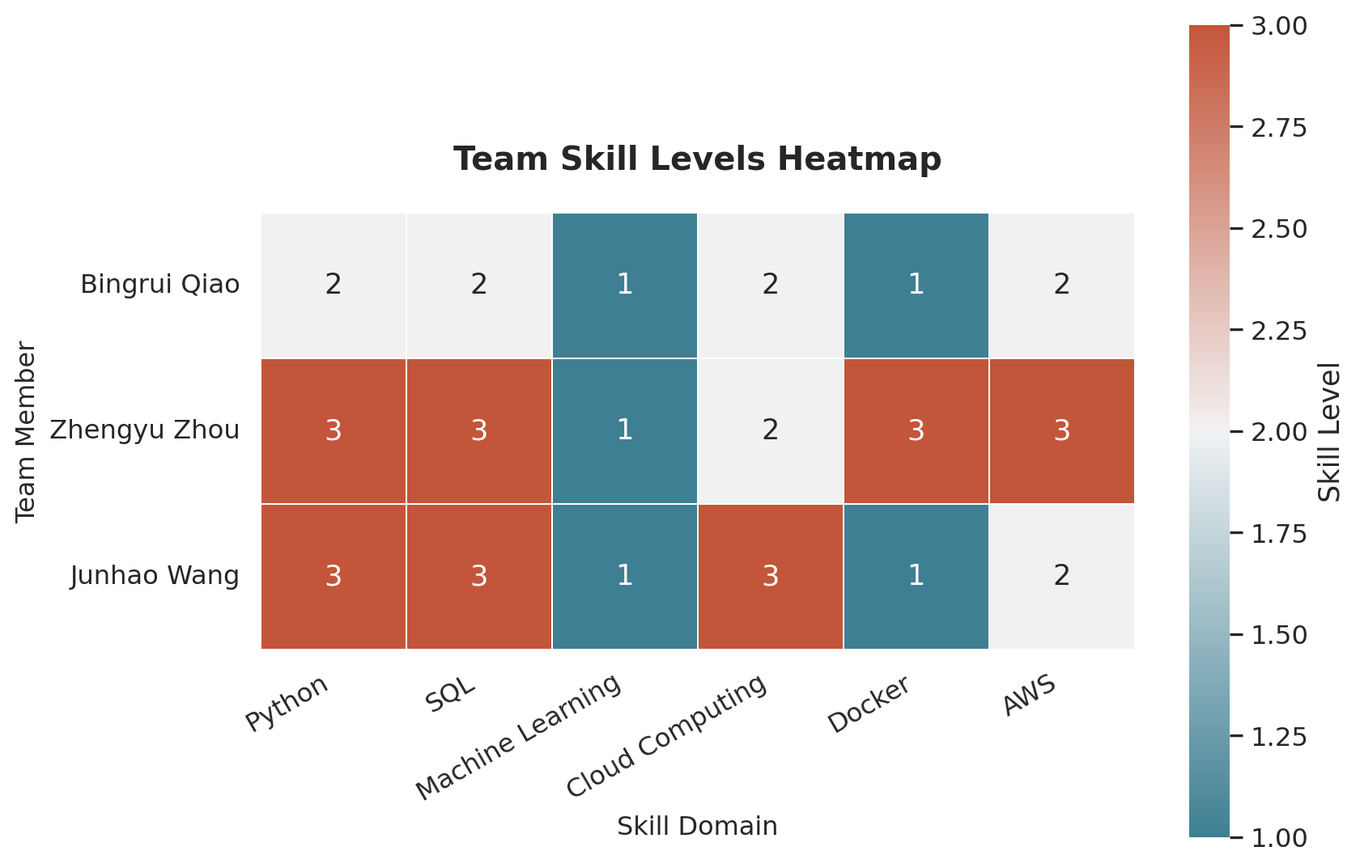
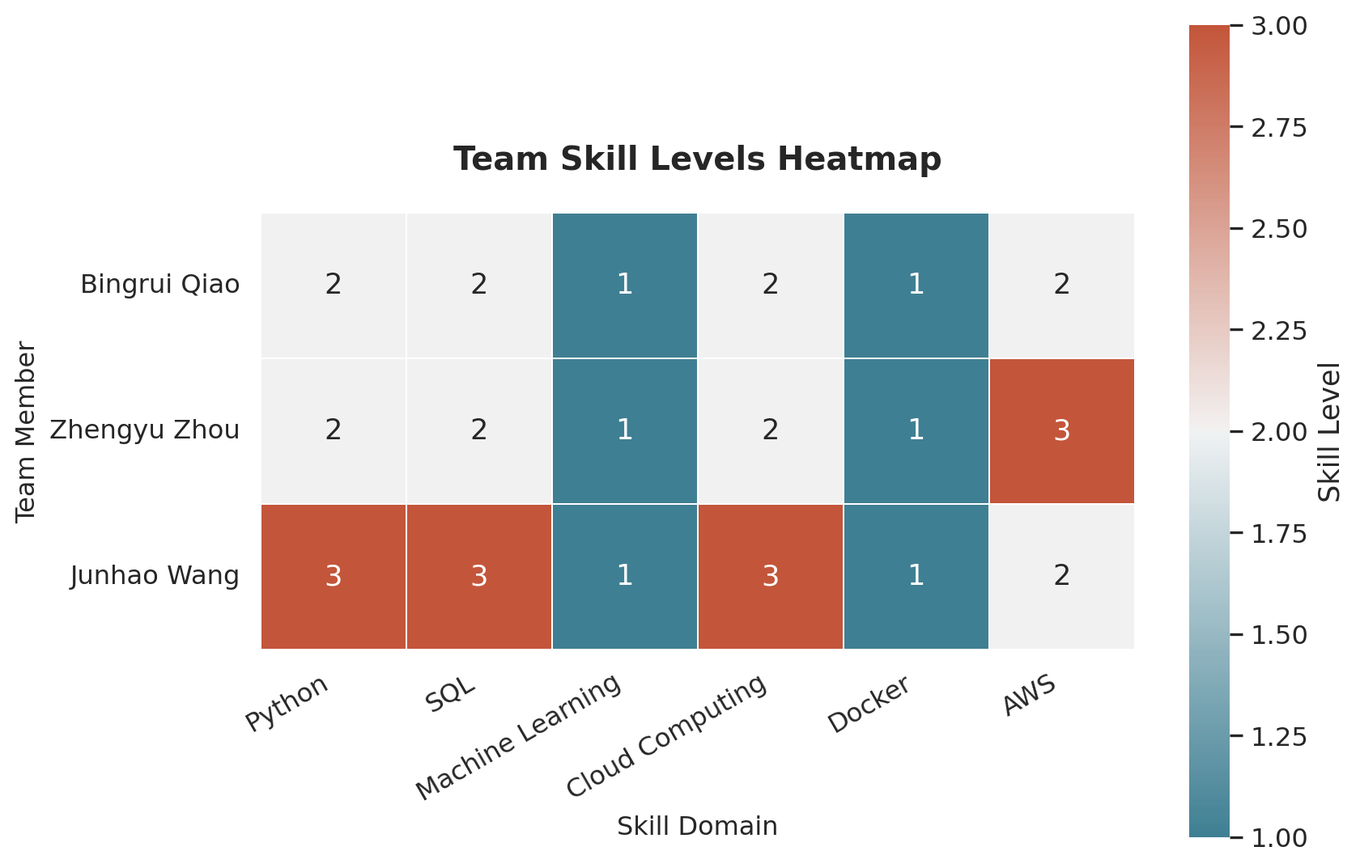
Built site for gh-pages

Changed region(s): [[0.1857, 0.3998, 0.4024, 0.5843], [0.619, 0.3998, 0.7429, 0.5843]]

diff --git a/skill_gap_analysis.html b/skill_gap_analysis.html
@@ -231,16 +231,16 @@ pre > code.sourceCode > span > a:first-child::before { text-decoration: underlin
 
 <section id="create-a-team-based-skill-dataframe" class="level1" data-number="1">
 <h1 data-number="1"><span class="header-section-number">1</span> Create a team-based skill dataframe</h1>
-<div id="f9940fe0" class="cell" data-execution_count="1">
+<div id="9b14aa88" class="cell" data-execution_count="1">
 <div class="code-copy-outer-scaffold"><div class="sourceCode cell-code" id="cb1"><pre class="sourceCode python code-with-copy"><code class="sourceCode python"><span id="cb1-1"><a href="#cb1-1" aria-hidden="true" tabindex="-1"></a><span class="im">import</span> pandas <span class="im">as</span> pd</span>
 <span id="cb1-2"><a href="#cb1-2" aria-hidden="true" tabindex="-1"></a></span>
 <span id="cb1-3"><a href="#cb1-3" aria-hidden="true" tabindex="-1"></a>skills_data <span class="op">=</span> {</span>
 <span id="cb1-4"><a href="#cb1-4" aria-hidden="true" tabindex="-1"></a>    <span class="st">"Name"</span>: [<span class="st">"Bingrui Qiao"</span>, <span class="st">"Zhengyu Zhou"</span>, <span class="st">"Junhao Wang"</span>],</span>
-<span id="cb1-5"><a href="#cb1-5" aria-hidden="true" tabindex="-1"></a>    <span class="st">"Python"</span>: [<span class="dv">2</span>, <span class="dv">3</span>, <span class="dv">3</span>],</span>
-<span id="cb1-6"><a href="#cb1-6" aria-hidden="true" tabindex="-1"></a>    <span class="st">"SQL"</span>: [<span class="dv">2</span>, <span class="dv">3</span>, <span class="dv">3</span>],</span>
+<span id="cb1-5"><a href="#cb1-5" aria-hidden="true" tabindex="-1"></a>    <span class="st">"Python"</span>: [<span class="dv">2</span>, <span class="dv">2</span>, <span class="dv">3</span>],</span>
+<span id="cb1-6"><a href="#cb1-6" aria-hidden="true" tabindex="-1"></a>    <span class="st">"SQL"</span>: [<span class="dv">2</span>, <span class="dv">2</span>, <span class="dv">3</span>],</span>
 <span id="cb1-7"><a href="#cb1-7" aria-hidden="true" tabindex="-1"></a>    <span class="st">"Machine Learning"</span>: [<span class="dv">1</span>, <span class="dv">1</span>, <span class="dv">1</span>],</span>
 <span id="cb1-8"><a href="#cb1-8" aria-hidden="true" tabindex="-1"></a>    <span class="st">"Cloud Computing"</span>: [<span class="dv">2</span>, <span class="dv">2</span>, <span class="dv">3</span>],</span>
-<span id="cb1-9"><a href="#cb1-9" aria-hidden="true" tabindex="-1"></a>    <span class="st">"Docker"</span>: [<span class="dv">1</span>, <span class="dv">3</span>, <span class="dv">1</span>],</span>
+<span id="cb1-9"><a href="#cb1-9" aria-hidden="true" tabindex="-1"></a>    <span class="st">"Docker"</span>: [<span class="dv">1</span>, <span class="dv">1</span>, <span class="dv">1</span>],</span>
 <span id="cb1-10"><a href="#cb1-10" aria-hidden="true" tabindex="-1"></a>    <span class="st">"AWS"</span>: [<span class="dv">2</span>, <span class="dv">3</span>, <span class="dv">2</span>]</span>
 <span id="cb1-11"><a href="#cb1-11" aria-hidden="true" tabindex="-1"></a>}</span>
 <span id="cb1-12"><a href="#cb1-12" aria-hidden="true" tabindex="-1"></a></span>
@@ -284,11 +284,11 @@ pre > code.sourceCode > span > a:first-child::before { text-decoration: underlin
 </tr>
 <tr class="even">
 <th data-quarto-table-cell-role="th">Zhengyu Zhou</th>
-<td>3</td>
-<td>3</td>
+<td>2</td>
+<td>2</td>
 <td>1</td>
 <td>2</td>
-<td>3</td>
+<td>1</td>
 <td>3</td>
 </tr>
 <tr class="odd">
@@ -309,7 +309,7 @@ pre > code.sourceCode > span > a:first-child::before { text-decoration: underlin
 </section>
 <section id="visualizing-skill-gaps" class="level1" data-number="2">
 <h1 data-number="2"><span class="header-section-number">2</span> Visualizing Skill Gaps</h1>
-<div id="5b78ab1b" class="cell" data-execution_count="2">
+<div id="b6d2c054" class="cell" data-execution_count="2">
 <div class="code-copy-outer-scaffold"><div class="sourceCode cell-code" id="cb2"><pre class="sourceCode python code-with-copy"><code class="sourceCode python"><span id="cb2-1"><a href="#cb2-1" aria-hidden="true" tabindex="-1"></a><span class="im">import</span> seaborn <span class="im">as</span> sns</span>
 <span id="cb2-2"><a href="#cb2-2" aria-hidden="true" tabindex="-1"></a><span class="im">import</span> matplotlib.pyplot <span class="im">as</span> plt</span>
 <span id="cb2-3"><a href="#cb2-3" aria-hidden="true" tabindex="-1"></a></span>
@@ -360,13 +360,13 @@ pre > code.sourceCode > span > a:first-child::before { text-decoration: underlin
 </section>
 <section id="compare-skill" class="level1" data-number="3">
 <h1 data-number="3"><span class="header-section-number">3</span> Compare skill</h1>
-<div id="104987b6" class="cell" data-execution_count="3">
+<div id="3018a6d8" class="cell" data-execution_count="3">
 <div class="code-copy-outer-scaffold"><div class="sourceCode cell-code" id="cb3"><pre class="sourceCode python code-with-copy"><code class="sourceCode python"><span id="cb3-1"><a href="#cb3-1" aria-hidden="true" tabindex="-1"></a><span class="co"># Load data</span></span>
-<span id="cb3-2"><a href="#cb3-2" aria-hidden="true" tabindex="-1"></a>raw_df <span class="op">=</span> pd.read_csv(<span class="st">"data/cleaned_lightcast.csv"</span>)</span>
+<span id="cb3-2"><a href="#cb3-2" aria-hidden="true" tabindex="-1"></a>df <span class="op">=</span> pd.read_csv(<span class="st">"data/cleaned_lightcast.csv"</span>)</span>
 <span id="cb3-3"><a href="#cb3-3" aria-hidden="true" tabindex="-1"></a></span>
 <span id="cb3-4"><a href="#cb3-4" aria-hidden="true" tabindex="-1"></a><span class="co"># Count keyword occurrences</span></span>
 <span id="cb3-5"><a href="#cb3-5" aria-hidden="true" tabindex="-1"></a>top_skills <span class="op">=</span> df_skills.columns.tolist()</span>
-<span id="cb3-6"><a href="#cb3-6" aria-hidden="true" tabindex="-1"></a>job_text <span class="op">=</span> raw_df[<span class="st">"BODY"</span>].fillna(<span class="st">""</span>)</span>
+<span id="cb3-6"><a href="#cb3-6" aria-hidden="true" tabindex="-1"></a>job_text <span class="op">=</span> df[<span class="st">"BODY"</span>].fillna(<span class="st">""</span>)</span>
 <span id="cb3-7"><a href="#cb3-7" aria-hidden="true" tabindex="-1"></a>skill_counts <span class="op">=</span> {s: job_text.<span class="bu">str</span>.contains(s, case<span class="op">=</span><span class="va">False</span>).<span class="bu">sum</span>() <span class="cf">for</span> s <span class="kw">in</span> top_skills}</span>
 <span id="cb3-8"><a href="#cb3-8" aria-hidden="true" tabindex="-1"></a></span>
 <span id="cb3-9"><a href="#cb3-9" aria-hidden="true" tabindex="-1"></a><span class="co"># Append demand row</span></span>
@@ -409,11 +409,11 @@ pre > code.sourceCode > span > a:first-child::before { text-decoration: underlin
 </tr>
 <tr class="even">
 <th data-quarto-table-cell-role="th">Zhengyu Zhou</th>
-<td>3</td>
-<td>3</td>
+<td>2</td>
+<td>2</td>
 <td>1</td>
 <td>2</td>
-<td>3</td>
+<td>1</td>
 <td>3</td>
 </tr>
 <tr class="odd">
@@ -443,7 +443,7 @@ pre > code.sourceCode > span > a:first-child::before { text-decoration: underlin
 </section>
 <section id="visual-heatmap" class="level1" data-number="4">
 <h1 data-number="4"><span class="header-section-number">4</span> Visual heatmap</h1>
-<div id="b10fc637" class="cell" data-execution_count="4">
+<div id="05cc034d" class="cell" data-execution_count="4">
 <div class="code-copy-outer-scaffold"><div class="sourceCode cell-code" id="cb4"><pre class="sourceCode python code-with-copy"><code class="sourceCode python"><span id="cb4-1"><a href="#cb4-1" aria-hidden="true" tabindex="-1"></a><span class="im">import</span> seaborn <span class="im">as</span> sns</span>
 <span id="cb4-2"><a href="#cb4-2" aria-hidden="true" tabindex="-1"></a><span class="im">import</span> matplotlib.pyplot <span class="im">as</span> plt</span>
 <span id="cb4-3"><a href="#cb4-3" aria-hidden="true" tabindex="-1"></a></span>
@@ -475,7 +475,7 @@ pre > code.sourceCode > span > a:first-child::before { text-decoration: underlin
 <span id="cb4-29"><a href="#cb4-29" aria-hidden="true" tabindex="-1"></a>plt.colorbar(label<span class="op">=</span><span class="st">"Market Demand Count"</span>)</span>
 <span id="cb4-30"><a href="#cb4-30" aria-hidden="true" tabindex="-1"></a>plt.yticks([<span class="dv">0</span>], [<span class="st">"Market Demand"</span>], fontsize<span class="op">=</span><span class="dv">10</span>)</span>
 <span id="cb4-31"><a href="#cb4-31" aria-hidden="true" tabindex="-1"></a>plt.xticks(<span class="bu">range</span>(<span class="bu">len</span>(df_skills.columns)), df_skills.columns, rotation<span class="op">=</span><span class="dv">30</span>, ha<span class="op">=</span><span class="st">"right"</span>, fontsize<span class="op">=</span><span class="dv">9</span>)</span>
-<span id="cb4-32"><a href="#cb4-32" aria-hidden="true" tabindex="-1"></a>plt.title(<span class="st">"Market Demand by Skill"</span>, fontsize<span class="op">=</span><span class="dv">13</span>, weight<span class="op">=</span><span class="st">"bold"</span>)</span>
+<span id="cb4-32"><a href="#cb4-32" aria-hidden="true" tabindex="-1"></a>plt.title(<span class="st">"Market Demand"</span>, fontsize<span class="op">=</span><span class="dv">13</span>, weight<span class="op">=</span><span class="st">"bold"</span>)</span>
 <span id="cb4-33"><a href="#cb4-33" aria-hidden="true" tabindex="-1"></a>plt.tight_layout()</span>
 <span id="cb4-34"><a href="#cb4-34" aria-hidden="true" tabindex="-1"></a>plt.savefig(<span class="st">"figures/Market_Demand.png"</span>, dpi<span class="op">=</span><span class="dv">300</span>, bbox_inches<span class="op">=</span><span class="st">"tight"</span>)</span>
 <span id="cb4-35"><a href="#cb4-35" aria-hidden="true" tabindex="-1"></a>plt.show()</span></code></pre></div><button title="Copy to Clipboard" class="code-copy-button"><i class="bi"></i></button></div>
@@ -494,10 +494,6 @@ pre > code.sourceCode > span > a:first-child::before { text-decoration: underlin
 </div>
 </div>
 </div>
-<p>Based on the heatmap comparison of each person’s self-ratings (1–3) against the market-demand scores (SQL and Machine Learning are hottest; Cloud/Docker mid; AWS/Python lower), here’s a concise, paragraph-style improvement plan:</p>
-<p>Bingrui Qiao should prioritize Machine Learning and SQL. Start with Kaggle’s “Intro to ML” + scikit-learn tutorials (train/validate linear/logistic/trees), then solve Mode SQL and LeetCode Database tracks to raise SQL from 2→3. Package one ML notebook into a small FastAPI service and containerize it to practice Docker basics (images, multi-stage build, docker run). Target two 90-minute focus blocks per week and submit progress as GitHub PRs for review.</p>
-<p>Zhengyu Zhou is already strong in Python/SQL/Docker/AWS; the biggest gap is Machine Learning and, secondarily, Cloud architecture depth. Take Andrew Ng’s “Machine Learning Specialization,” then deploy a trained model as a container on AWS (ECS Fargate or Lambda + API Gateway). For Cloud (2→3), complete AWS Well-Architected + IAM/VPC labs and add IaC (SAM/CloudFormation/Terraform) to the repo. After each module, demo a working endpoint and post a runbook; ask a teammate for a security and cost review.</p>
-<p>Junhao Wang is solid in Python/SQL/Cloud but needs Machine Learning and Docker. Follow fast.ai (first 2–3 lessons) or scikit-learn’s official guides to lift ML (1→2/3). In parallel, complete “Docker Get Started,” containerize a simple inference API, push to Amazon ECR, and run on ECS; add a GitHub Actions workflow to build/test/push on every PR. Aim for one 2-hour ML block and one 2-hour Docker/DevOps block weekly; measure success by latency/throughput of the deployed service and a clean CI pipeline.</p>
 
 
 </section>

diff --git a/data_analysis.html b/data_analysis.html
@@ -241,7 +241,7 @@ pre > code.sourceCode > span > a:first-child::before { text-decoration: underlin
 <section id="data-cleaning-preprocessing" class="level2" data-number="1">
 <h2 data-number="1" class="anchored" data-anchor-id="data-cleaning-preprocessing"><span class="header-section-number">1</span> Data Cleaning &amp; Preprocessing</h2>
 <p>In this section, we clean the Lightcast dataset, log each step, and save a reproducible cleaned CSV for downstream EDA.</p>
-<div id="1c581ca2" class="cell" data-execution_count="2">
+<div id="63467d54" class="cell" data-execution_count="2">
 <div class="code-copy-outer-scaffold"><div class="sourceCode cell-code" id="cb1"><pre class="sourceCode python code-with-copy"><code class="sourceCode python"><span id="cb1-1"><a href="#cb1-1" aria-hidden="true" tabindex="-1"></a><span class="im">import</span> os, datetime</span>
 <span id="cb1-2"><a href="#cb1-2" aria-hidden="true" tabindex="-1"></a>os.makedirs(<span class="st">"logs"</span>, exist_ok<span class="op">=</span><span class="va">True</span>)</span>
 <span id="cb1-3"><a href="#cb1-3" aria-hidden="true" tabindex="-1"></a><span class="cf">with</span> <span class="bu">open</span>(<span class="st">"logs/_ping.txt"</span>, <span class="st">"w"</span>, encoding<span class="op">=</span><span class="st">"utf-8"</span>) <span class="im">as</span> f:</span>
@@ -250,7 +250,7 @@ pre > code.sourceCode > span > a:first-child::before { text-decoration: underlin
 </div>
 <section id="setup-load-clean-version" class="level3" data-number="1.1">
 <h3 data-number="1.1" class="anchored" data-anchor-id="setup-load-clean-version"><span class="header-section-number">1.1</span> Setup &amp; Load (clean version)</h3>
-<div id="2bf30390" class="cell" data-execution_count="3">
+<div id="7d97df26" class="cell" data-execution_count="3">
 <div class="code-copy-outer-scaffold"><div class="sourceCode cell-code" id="cb2"><pre class="sourceCode python code-with-copy"><code class="sourceCode python"><span id="cb2-1"><a href="#cb2-1" aria-hidden="true" tabindex="-1"></a><span class="im">import</span> os, datetime</span>
 <span id="cb2-2"><a href="#cb2-2" aria-hidden="true" tabindex="-1"></a><span class="im">import</span> numpy <span class="im">as</span> np</span>
 <span id="cb2-3"><a href="#cb2-3" aria-hidden="true" tabindex="-1"></a><span class="im">import</span> pandas <span class="im">as</span> pd</span>
@@ -310,7 +310,7 @@ pre > code.sourceCode > span > a:first-child::before { text-decoration: underlin
 </section>
 <section id="drop-redundantirrelevant-columns" class="level3" data-number="1.2">
 <h3 data-number="1.2" class="anchored" data-anchor-id="drop-redundantirrelevant-columns"><span class="header-section-number">1.2</span> Drop redundant/irrelevant columns</h3>
-<div id="6cc71b63" class="cell" data-execution_count="4">
+<div id="1bd2558a" class="cell" data-execution_count="4">
 <div class="code-copy-outer-scaffold"><div class="sourceCode cell-code" id="cb3"><pre class="sourceCode python code-with-copy"><code class="sourceCode python"><span id="cb3-1"><a href="#cb3-1" aria-hidden="true" tabindex="-1"></a>columns_to_drop <span class="op">=</span> [</span>
 <span id="cb3-2"><a href="#cb3-2" aria-hidden="true" tabindex="-1"></a><span class="st">"ID"</span>,<span class="st">"URL"</span>,<span class="st">"ACTIVE_URLS"</span>,<span class="st">"DUPLICATES"</span>,<span class="st">"LAST_UPDATED_TIMESTAMP"</span>,</span>
 <span id="cb3-3"><a href="#cb3-3" aria-hidden="true" tabindex="-1"></a><span class="st">"NAICS2"</span>,<span class="st">"NAICS3"</span>,<span class="st">"NAICS4"</span>,<span class="st">"NAICS5"</span>,<span class="st">"NAICS6"</span>,</span>
@@ -337,7 +337,7 @@ pre > code.sourceCode > span > a:first-child::before { text-decoration: underlin
 </section>
 <section id="visualize-handle-missing-values" class="level3" data-number="1.3">
 <h3 data-number="1.3" class="anchored" data-anchor-id="visualize-handle-missing-values"><span class="header-section-number">1.3</span> Visualize &amp; handle missing values</h3>
-<div id="4bb0766b" class="cell" data-execution_count="5">
+<div id="04ade187" class="cell" data-execution_count="5">
 <div class="code-copy-outer-scaffold"><div class="sourceCode cell-code" id="cb4"><pre class="sourceCode python code-with-copy"><code class="sourceCode python"><span id="cb4-1"><a href="#cb4-1" aria-hidden="true" tabindex="-1"></a><span class="co"># --- Missing values correlation heatmap (like your classmate) ---</span></span>
 <span id="cb4-2"><a href="#cb4-2" aria-hidden="true" tabindex="-1"></a></span>
 <span id="cb4-3"><a href="#cb4-3" aria-hidden="true" tabindex="-1"></a>cols_with_na <span class="op">=</span> [c <span class="cf">for</span> c <span class="kw">in</span> df.columns <span class="cf">if</span> df[c].isna().<span class="bu">any</span>()]</span>
@@ -383,7 +383,7 @@ pre > code.sourceCode > span > a:first-child::before { text-decoration: underlin
 </section>
 <section id="remove-duplicates" class="level3" data-number="1.4">
 <h3 data-number="1.4" class="anchored" data-anchor-id="remove-duplicates"><span class="header-section-number">1.4</span> Remove duplicates</h3>
-<div id="8d31576f" class="cell" data-execution_count="6">
+<div id="fe705bdc" class="cell" data-execution_count="6">
 <div class="code-copy-outer-scaffold"><div class="sourceCode cell-code" id="cb5"><pre class="sourceCode python code-with-copy"><code class="sourceCode python"><span id="cb5-1"><a href="#cb5-1" aria-hidden="true" tabindex="-1"></a>subset_cols <span class="op">=</span> [c <span class="cf">for</span> c <span class="kw">in</span> [<span class="st">"TITLE"</span>,<span class="st">"COMPANY"</span>,<span class="st">"LOCATION"</span>,<span class="st">"POSTED"</span>] <span class="cf">if</span> c <span class="kw">in</span> df.columns]</span>
 <span id="cb5-2"><a href="#cb5-2" aria-hidden="true" tabindex="-1"></a>before <span class="op">=</span> <span class="bu">len</span>(df)</span>
 <span id="cb5-3"><a href="#cb5-3" aria-hidden="true" tabindex="-1"></a><span class="cf">if</span> subset_cols:</span>
@@ -394,7 +394,7 @@ pre > code.sourceCode > span > a:first-child::before { text-decoration: underlin
 </section>
 <section id="optional-salary-sanity-filter" class="level3" data-number="1.5">
 <h3 data-number="1.5" class="anchored" data-anchor-id="optional-salary-sanity-filter"><span class="header-section-number">1.5</span> Optional salary sanity filter</h3>
-<div id="0e17ee23" class="cell" data-execution_count="7">
+<div id="a19eb58e" class="cell" data-execution_count="7">
 <div class="code-copy-outer-scaffold"><div class="sourceCode cell-code" id="cb6"><pre class="sourceCode python code-with-copy"><code class="sourceCode python"><span id="cb6-1"><a href="#cb6-1" aria-hidden="true" tabindex="-1"></a><span class="cf">if</span> <span class="st">"SALARY"</span> <span class="kw">in</span> df.columns:</span>
 <span id="cb6-2"><a href="#cb6-2" aria-hidden="true" tabindex="-1"></a>    bad <span class="op">=</span> (df[<span class="st">"SALARY"</span>] <span class="op">&lt;</span> <span class="dv">1</span>) <span class="op">|</span> (df[<span class="st">"SALARY"</span>] <span class="op">&gt;</span> <span class="dv">1_000_000</span>)</span>
 <span id="cb6-3"><a href="#cb6-3" aria-hidden="true" tabindex="-1"></a>    n_bad <span class="op">=</span> <span class="bu">int</span>(bad.<span class="bu">sum</span>())</span>
@@ -407,7 +407,7 @@ pre > code.sourceCode > span > a:first-child::before { text-decoration: underlin
 </section>
 <section id="save-summary" class="level3" data-number="1.6">
 <h3 data-number="1.6" class="anchored" data-anchor-id="save-summary"><span class="header-section-number">1.6</span> Save &amp; summary</h3>
-<div id="2dfa0786" class="cell" data-execution_count="8">
+<div id="b8e858b1" class="cell" data-execution_count="8">
 <div class="code-copy-outer-scaffold"><div class="sourceCode cell-code" id="cb7"><pre class="sourceCode python code-with-copy"><code class="sourceCode python"><span id="cb7-1"><a href="#cb7-1" aria-hidden="true" tabindex="-1"></a>df.to_csv(CLEAN_PATH, index<span class="op">=</span><span class="va">False</span>)</span>
 <span id="cb7-2"><a href="#cb7-2" aria-hidden="true" tabindex="-1"></a>log(<span class="ss">f"Saved cleaned dataset → </span><span class="sc">{</span>CLEAN_PATH<span class="sc">}</span><span class="ss">"</span>)</span>
 <span id="cb7-3"><a href="#cb7-3" aria-hidden="true" tabindex="-1"></a></span>
@@ -427,7 +427,7 @@ In this section, we focus on three aspects: 1. Job postings by industry<br>
 <section id="job-postings-by-industry" class="level3" data-number="2.1">
 <h3 data-number="2.1" class="anchored" data-anchor-id="job-postings-by-industry"><span class="header-section-number">2.1</span> Job Postings by Industry</h3>
 <p>Understanding industry demand helps reveal which sectors are most active in hiring.</p>
-<div id="349bdb43" class="cell" data-execution_count="9">
+<div id="044a9026" class="cell" data-execution_count="9">
 <div class="code-copy-outer-scaffold"><div class="sourceCode cell-code" id="cb8"><pre class="sourceCode python code-with-copy"><code class="sourceCode python"><span id="cb8-1"><a href="#cb8-1" aria-hidden="true" tabindex="-1"></a><span class="im">import</span> pandas <span class="im">as</span> pd</span>
 <span id="cb8-2"><a href="#cb8-2" aria-hidden="true" tabindex="-1"></a><span class="im">import</span> matplotlib.pyplot <span class="im">as</span> plt</span>
 <span id="cb8-3"><a href="#cb8-3" aria-hidden="true" tabindex="-1"></a><span class="im">import</span> seaborn <span class="im">as</span> sns</span>
@@ -473,7 +473,7 @@ In this section, we focus on three aspects: 1. Job postings by industry<br>
 </section>
 <section id="salary-distribution-by-industry" class="level3" data-number="2.2">
 <h3 data-number="2.2" class="anchored" data-anchor-id="salary-distribution-by-industry"><span class="header-section-number">2.2</span> Salary Distribution by Industry</h3>
-<div id="2ea6015f" class="cell" data-execution_count="10">
+<div id="9a7fb3bc" class="cell" data-execution_count="10">
 <div class="code-copy-outer-scaffold"><div class="sourceCode cell-code" id="cb9"><pre class="sourceCode python code-with-copy"><code class="sourceCode python"><span id="cb9-1"><a href="#cb9-1" aria-hidden="true" tabindex="-1"></a><span class="im">import</span> os</span>
 <span id="cb9-2"><a href="#cb9-2" aria-hidden="true" tabindex="-1"></a><span class="im">import</span> pandas <span class="im">as</span> pd</span>
 <span id="cb9-3"><a href="#cb9-3" aria-hidden="true" tabindex="-1"></a><span class="im">import</span> matplotlib.pyplot <span class="im">as</span> plt</span>
@@ -527,7 +527,7 @@ In this section, we focus on three aspects: 1. Job postings by industry<br>
 </section>
 <section id="remote-vs.-on-site-jobs" class="level3" data-number="2.3">
 <h3 data-number="2.3" class="anchored" data-anchor-id="remote-vs.-on-site-jobs"><span class="header-section-number">2.3</span> Remote vs.&nbsp;On-Site Jobs</h3>
-<div id="c0718ada" class="cell" data-execution_count="11">
+<div id="af18b292" class="cell" data-execution_count="11">
 <div class="code-copy-outer-scaffold"><div class="sourceCode cell-code" id="cb10"><pre class="sourceCode python code-with-copy"><code class="sourceCode python"><span id="cb10-1"><a href="#cb10-1" aria-hidden="true" tabindex="-1"></a><span class="im">import</span> os</span>
 <span id="cb10-2"><a href="#cb10-2" aria-hidden="true" tabindex="-1"></a><span class="im">import</span> pandas <span class="im">as</span> pd</span>
 <span id="cb10-3"><a href="#cb10-3" aria-hidden="true" tabindex="-1"></a><span class="im">import</span> matplotlib.pyplot <span class="im">as</span> plt</span>

diff --git a/data_cleaning.html b/data_cleaning.html
@@ -235,7 +235,7 @@ pre > code.sourceCode > span > a:first-child::before { text-decoration: underlin
 <section id="data-cleaning-preprocessing" class="level2" data-number="1">
 <h2 data-number="1" class="anchored" data-anchor-id="data-cleaning-preprocessing"><span class="header-section-number">1</span> Data Cleaning &amp; Preprocessing</h2>
 <p>In this section, we clean the Lightcast dataset, log each step, and save a reproducible cleaned CSV for downstream EDA.</p>
-<div id="561a17fb" class="cell" data-execution_count="2">
+<div id="edd8e709" class="cell" data-execution_count="2">
 <div class="code-copy-outer-scaffold"><div class="sourceCode cell-code" id="cb1"><pre class="sourceCode python code-with-copy"><code class="sourceCode python"><span id="cb1-1"><a href="#cb1-1" aria-hidden="true" tabindex="-1"></a><span class="im">import</span> os, datetime</span>
 <span id="cb1-2"><a href="#cb1-2" aria-hidden="true" tabindex="-1"></a>os.makedirs(<span class="st">"logs"</span>, exist_ok<span class="op">=</span><span class="va">True</span>)</span>
 <span id="cb1-3"><a href="#cb1-3" aria-hidden="true" tabindex="-1"></a><span class="cf">with</span> <span class="bu">open</span>(<span class="st">"logs/_ping.txt"</span>, <span class="st">"w"</span>, encoding<span class="op">=</span><span class="st">"utf-8"</span>) <span class="im">as</span> f:</span>
@@ -244,7 +244,7 @@ pre > code.sourceCode > span > a:first-child::before { text-decoration: underlin
 </div>
 <section id="setup-load-clean-version" class="level3" data-number="1.1">
 <h3 data-number="1.1" class="anchored" data-anchor-id="setup-load-clean-version"><span class="header-section-number">1.1</span> Setup &amp; Load (clean version)</h3>
-<div id="141f617b" class="cell" data-execution_count="3">
+<div id="ce27b599" class="cell" data-execution_count="3">
 <div class="code-copy-outer-scaffold"><div class="sourceCode cell-code" id="cb2"><pre class="sourceCode python code-with-copy"><code class="sourceCode python"><span id="cb2-1"><a href="#cb2-1" aria-hidden="true" tabindex="-1"></a><span class="im">import</span> os, datetime</span>
 <span id="cb2-2"><a href="#cb2-2" aria-hidden="true" tabindex="-1"></a><span class="im">import</span> numpy <span class="im">as</span> np</span>
 <span id="cb2-3"><a href="#cb2-3" aria-hidden="true" tabindex="-1"></a><span class="im">import</span> pandas <span class="im">as</span> pd</span>
@@ -304,7 +304,7 @@ pre > code.sourceCode > span > a:first-child::before { text-decoration: underlin
 </section>
 <section id="drop-redundantirrelevant-columns" class="level3" data-number="1.2">
 <h3 data-number="1.2" class="anchored" data-anchor-id="drop-redundantirrelevant-columns"><span class="header-section-number">1.2</span> Drop redundant/irrelevant columns</h3>
-<div id="ba5573ac" class="cell" data-execution_count="4">
+<div id="42a38f23" class="cell" data-execution_count="4">
 <div class="code-copy-outer-scaffold"><div class="sourceCode cell-code" id="cb3"><pre class="sourceCode python code-with-copy"><code class="sourceCode python"><span id="cb3-1"><a href="#cb3-1" aria-hidden="true" tabindex="-1"></a>columns_to_drop <span class="op">=</span> [</span>
 <span id="cb3-2"><a href="#cb3-2" aria-hidden="true" tabindex="-1"></a><span class="st">"ID"</span>,<span class="st">"URL"</span>,<span class="st">"ACTIVE_URLS"</span>,<span class="st">"DUPLICATES"</span>,<span class="st">"LAST_UPDATED_TIMESTAMP"</span>,</span>
 <span id="cb3-3"><a href="#cb3-3" aria-hidden="true" tabindex="-1"></a><span class="st">"NAICS2"</span>,<span class="st">"NAICS3"</span>,<span class="st">"NAICS4"</span>,<span class="st">"NAICS5"</span>,<span class="st">"NAICS6"</span>,</span>
@@ -331,7 +331,7 @@ pre > code.sourceCode > span > a:first-child::before { text-decoration: underlin
 </section>
 <section id="visualize-handle-missing-values" class="level3" data-number="1.3">
 <h3 data-number="1.3" class="anchored" data-anchor-id="visualize-handle-missing-values"><span class="header-section-number">1.3</span> Visualize &amp; handle missing values</h3>
-<div id="1222f23c" class="cell" data-execution_count="5">
+<div id="6041f4f8" class="cell" data-execution_count="5">
 <div class="code-copy-outer-scaffold"><div class="sourceCode cell-code" id="cb4"><pre class="sourceCode python code-with-copy"><code class="sourceCode python"><span id="cb4-1"><a href="#cb4-1" aria-hidden="true" tabindex="-1"></a><span class="co"># --- Missing values correlation heatmap (like your classmate) ---</span></span>
 <span id="cb4-2"><a href="#cb4-2" aria-hidden="true" tabindex="-1"></a></span>
 <span id="cb4-3"><a href="#cb4-3" aria-hidden="true" tabindex="-1"></a>cols_with_na <span class="op">=</span> [c <span class="cf">for</span> c <span class="kw">in</span> df.columns <span class="cf">if</span> df[c].isna().<span class="bu">any</span>()]</span>
@@ -377,7 +377,7 @@ pre > code.sourceCode > span > a:first-child::before { text-decoration: underlin
 </section>
 <section id="remove-duplicates" class="level3" data-number="1.4">
 <h3 data-number="1.4" class="anchored" data-anchor-id="remove-duplicates"><span class="header-section-number">1.4</span> Remove duplicates</h3>
-<div id="426b73bb" class="cell" data-execution_count="6">
+<div id="6dd01490" class="cell" data-execution_count="6">
 <div class="code-copy-outer-scaffold"><div class="sourceCode cell-code" id="cb5"><pre class="sourceCode python code-with-copy"><code class="sourceCode python"><span id="cb5-1"><a href="#cb5-1" aria-hidden="true" tabindex="-1"></a>subset_cols <span class="op">=</span> [c <span class="cf">for</span> c <span class="kw">in</span> [<span class="st">"TITLE"</span>,<span class="st">"COMPANY"</span>,<span class="st">"LOCATION"</span>,<span class="st">"POSTED"</span>] <span class="cf">if</span> c <span class="kw">in</span> df.columns]</span>
 <span id="cb5-2"><a href="#cb5-2" aria-hidden="true" tabindex="-1"></a>before <span class="op">=</span> <span class="bu">len</span>(df)</span>
 <span id="cb5-3"><a href="#cb5-3" aria-hidden="true" tabindex="-1"></a><span class="cf">if</span> subset_cols:</span>
@@ -388,7 +388,7 @@ pre > code.sourceCode > span > a:first-child::before { text-decoration: underlin
 </section>
 <section id="optional-salary-sanity-filter" class="level3" data-number="1.5">
 <h3 data-number="1.5" class="anchored" data-anchor-id="optional-salary-sanity-filter"><span class="header-section-number">1.5</span> Optional salary sanity filter</h3>
-<div id="30129144" class="cell" data-execution_count="7">
+<div id="f99172e7" class="cell" data-execution_count="7">
 <div class="code-copy-outer-scaffold"><div class="sourceCode cell-code" id="cb6"><pre class="sourceCode python code-with-copy"><code class="sourceCode python"><span id="cb6-1"><a href="#cb6-1" aria-hidden="true" tabindex="-1"></a><span class="cf">if</span> <span class="st">"SALARY"</span> <span class="kw">in</span> df.columns:</span>
 <span id="cb6-2"><a href="#cb6-2" aria-hidden="true" tabindex="-1"></a>    bad <span class="op">=</span> (df[<span class="st">"SALARY"</span>] <span class="op">&lt;</span> <span class="dv">1</span>) <span class="op">|</span> (df[<span class="st">"SALARY"</span>] <span class="op">&gt;</span> <span class="dv">1_000_000</span>)</span>
 <span id="cb6-3"><a href="#cb6-3" aria-hidden="true" tabindex="-1"></a>    n_bad <span class="op">=</span> <span class="bu">int</span>(bad.<span class="bu">sum</span>())</span>
@@ -401,7 +401,7 @@ pre > code.sourceCode > span > a:first-child::before { text-decoration: underlin
 </section>
 <section id="save-summary" class="level3" data-number="1.6">
 <h3 data-number="1.6" class="anchored" data-anchor-id="save-summary"><span class="header-section-number">1.6</span> Save &amp; summary</h3>
-<div id="efe7403b" class="cell" data-execution_count="8">
+<div id="b0b8a00d" class="cell" data-execution_count="8">
 <div class="code-copy-outer-scaffold"><div class="sourceCode cell-code" id="cb7"><pre class="sourceCode python code-with-copy"><code class="sourceCode python"><span id="cb7-1"><a href="#cb7-1" aria-hidden="true" tabindex="-1"></a>df.to_csv(CLEAN_PATH, index<span class="op">=</span><span class="va">False</span>)</span>
 <span id="cb7-2"><a href="#cb7-2" aria-hidden="true" tabindex="-1"></a>log(<span class="ss">f"Saved cleaned dataset → </span><span class="sc">{</span>CLEAN_PATH<span class="sc">}</span><span class="ss">"</span>)</span>
 <span id="cb7-3"><a href="#cb7-3" aria-hidden="true" tabindex="-1"></a></span>

diff --git a/eda.html b/eda.html
@@ -238,7 +238,7 @@ In this section, we focus on three aspects: 1. Job postings by industry<br>
 <section id="job-postings-by-industry" class="level3" data-number="1.1">
 <h3 data-number="1.1" class="anchored" data-anchor-id="job-postings-by-industry"><span class="header-section-number">1.1</span> Job Postings by Industry</h3>
 <p>Understanding industry demand helps reveal which sectors are most active in hiring.</p>
-<div id="9d25cf62" class="cell" data-execution_count="1">
+<div id="a1e74633" class="cell" data-execution_count="1">
 <div class="code-copy-outer-scaffold"><div class="sourceCode cell-code" id="cb1"><pre class="sourceCode python code-with-copy"><code class="sourceCode python"><span id="cb1-1"><a href="#cb1-1" aria-hidden="true" tabindex="-1"></a><span class="im">import</span> pandas <span class="im">as</span> pd</span>
 <span id="cb1-2"><a href="#cb1-2" aria-hidden="true" tabindex="-1"></a><span class="im">import</span> matplotlib.pyplot <span class="im">as</span> plt</span>
 <span id="cb1-3"><a href="#cb1-3" aria-hidden="true" tabindex="-1"></a><span class="im">import</span> seaborn <span class="im">as</span> sns</span>
@@ -284,7 +284,7 @@ In this section, we focus on three aspects: 1. Job postings by industry<br>
 </section>
 <section id="salary-distribution-by-industry" class="level3" data-number="1.2">
 <h3 data-number="1.2" class="anchored" data-anchor-id="salary-distribution-by-industry"><span class="header-section-number">1.2</span> Salary Distribution by Industry</h3>
-<div id="fd96a775" class="cell" data-execution_count="2">
+<div id="e8686cd3" class="cell" data-execution_count="2">
 <div class="code-copy-outer-scaffold"><div class="sourceCode cell-code" id="cb2"><pre class="sourceCode python code-with-copy"><code class="sourceCode python"><span id="cb2-1"><a href="#cb2-1" aria-hidden="true" tabindex="-1"></a><span class="im">import</span> os</span>
 <span id="cb2-2"><a href="#cb2-2" aria-hidden="true" tabindex="-1"></a><span class="im">import</span> pandas <span class="im">as</span> pd</span>
 <span id="cb2-3"><a href="#cb2-3" aria-hidden="true" tabindex="-1"></a><span class="im">import</span> matplotlib.pyplot <span class="im">as</span> plt</span>
@@ -338,7 +338,7 @@ In this section, we focus on three aspects: 1. Job postings by industry<br>
 </section>
 <section id="remote-vs.-on-site-jobs" class="level3" data-number="1.3">
 <h3 data-number="1.3" class="anchored" data-anchor-id="remote-vs.-on-site-jobs"><span class="header-section-number">1.3</span> Remote vs.&nbsp;On-Site Jobs</h3>
-<div id="f8b719a5" class="cell" data-execution_count="3">
+<div id="ad922654" class="cell" data-execution_count="3">
 <div class="code-copy-outer-scaffold"><div class="sourceCode cell-code" id="cb3"><pre class="sourceCode python code-with-copy"><code class="sourceCode python"><span id="cb3-1"><a href="#cb3-1" aria-hidden="true" tabindex="-1"></a><span class="im">import</span> os</span>
 <span id="cb3-2"><a href="#cb3-2" aria-hidden="true" tabindex="-1"></a><span class="im">import</span> pandas <span class="im">as</span> pd</span>
 <span id="cb3-3"><a href="#cb3-3" aria-hidden="true" tabindex="-1"></a><span class="im">import</span> matplotlib.pyplot <span class="im">as</span> plt</span>
